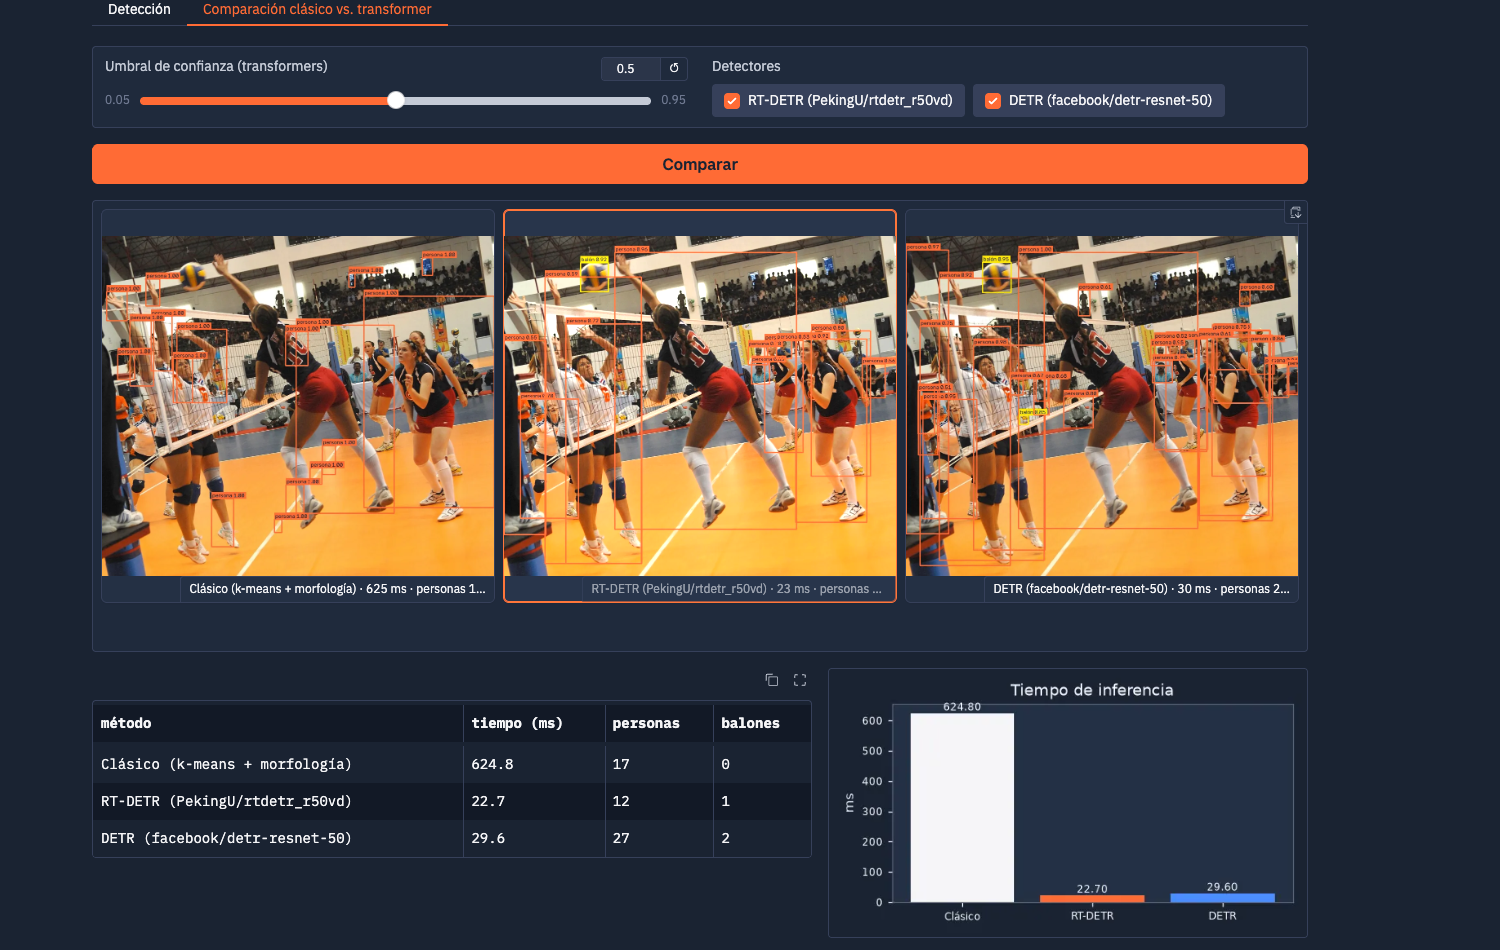
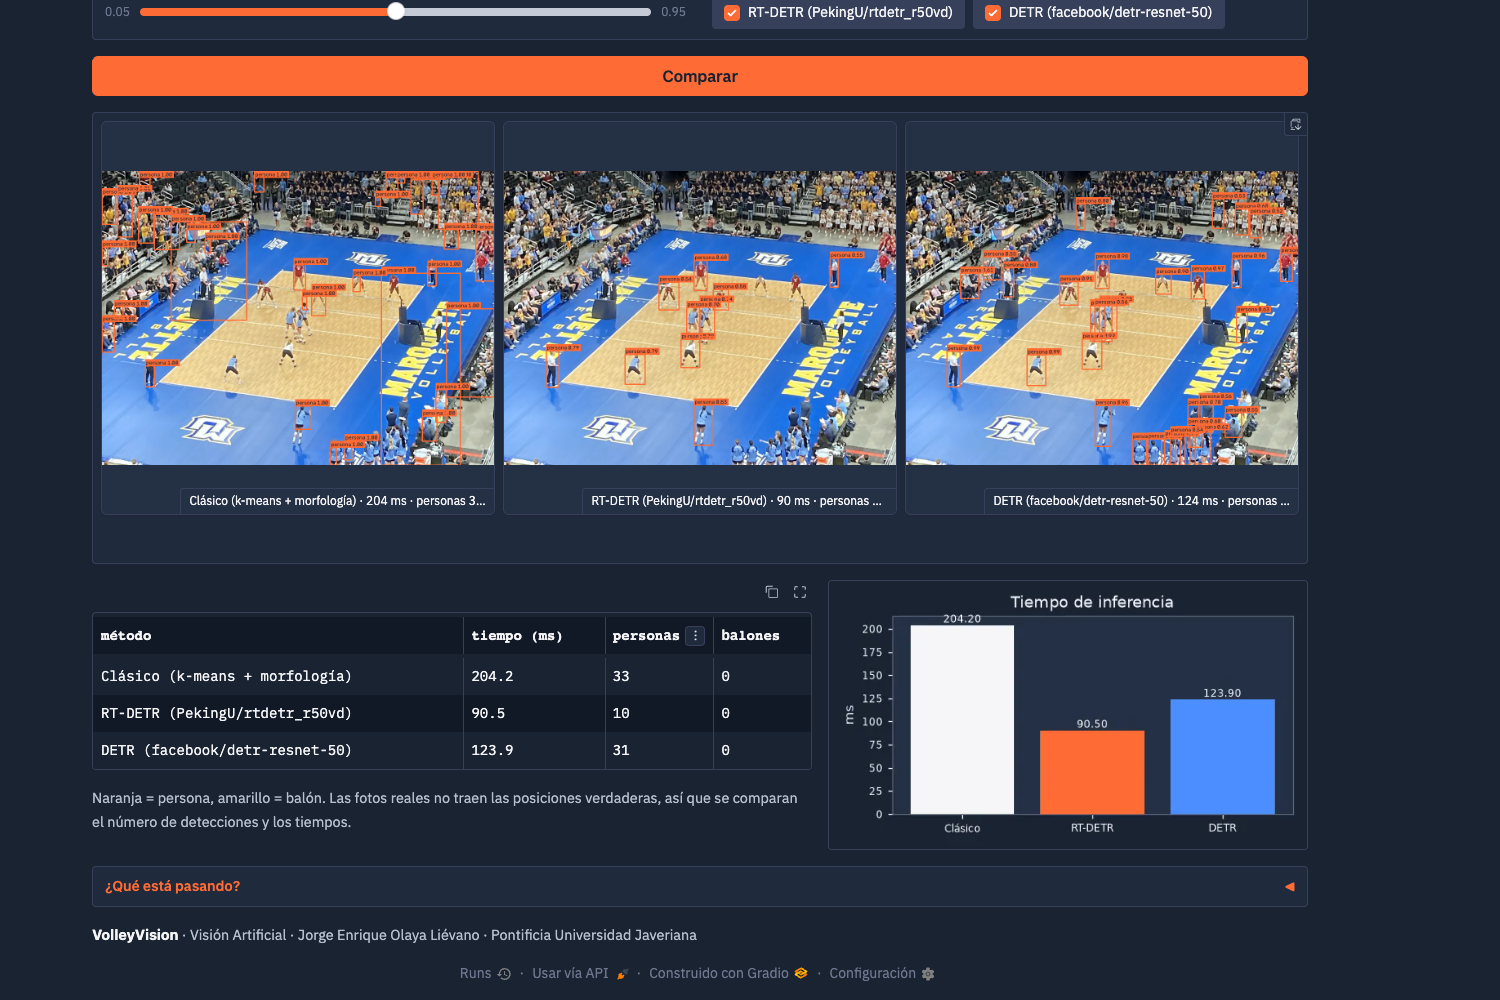
docs: fotos reales de ejemplo, créditos, limitaciones y capturas nuevas

diff --git a/README.md b/README.md
@@ -83,7 +83,7 @@ forzar un dispositivo: `export VOLLEYVISION_DEVICE=cpu`.
 Datos de ejemplo (opcional):
 
 ```bash
-python scripts/generar_sinteticos.py   # ya vienen en el repo; regenera tablero, cancha y video sintéticos
+python scripts/generar_sinteticos.py   # ya vienen en el repo; regenera el tablero de calibración
 python scripts/download_samples.py     # descarga fotos reales con licencia libre de Wikimedia Commons
 ```
 
@@ -144,9 +144,9 @@ Se usa un flujo tipo **Git Flow simplificado**:
 
 | Rama | Propósito |
 |---|---|
-| `main` | Versión estable y entregable. Solo recibe merges desde `develop` y se etiqueta en cada versión (`v1.0.0`, `v1.1.0`, `v2.0.0`, `v2.0.1`, `v2.1.0`, `v2.2.0`). |
+| `main` | Versión estable y entregable. Solo recibe merges desde `develop` y se etiqueta en cada versión (`v1.0.0`, `v1.1.0`, `v2.0.0`, `v2.0.1`, `v2.1.0`, `v2.2.0`, `v2.3.0`). |
 | `develop` | Rama de integración: aquí se juntan los módulos terminados y probados. |
-| `feature/<tema>` | Una rama por módulo del curso: `feature/calibracion`, `feature/filtros`, `feature/histogramas`, `feature/umbralizacion`, `feature/morfologia`, `feature/segmentacion`, `feature/caracterizacion`, `feature/transformers`, `feature/ui` (y `feature/docs` para la documentación). Los cambios posteriores siguen el mismo flujo: `feature/camara-trasera` cambió la cámara a la vista trasera (`v1.1.0`) y `feature/gradio-zerogpu` pasó la interfaz a Gradio con ZeroGPU (`v2.0.0`); `feature/ui-sencilla` agregó el modo guiado para no expertos (`v2.1.0`) y `feature/solo-mi-equipo` hizo que solo se analice el equipo propio (`v2.2.0`). |
+| `feature/<tema>` | Una rama por módulo del curso: `feature/calibracion`, `feature/filtros`, `feature/histogramas`, `feature/umbralizacion`, `feature/morfologia`, `feature/segmentacion`, `feature/caracterizacion`, `feature/transformers`, `feature/ui` (y `feature/docs` para la documentación). Los cambios posteriores siguen el mismo flujo: `feature/camara-trasera` cambió la cámara a la vista trasera (`v1.1.0`) y `feature/gradio-zerogpu` pasó la interfaz a Gradio con ZeroGPU (`v2.0.0`); `feature/ui-sencilla` agregó el modo guiado para no expertos (`v2.1.0`) `feature/solo-mi-equipo` hizo que solo se analice el equipo propio (`v2.2.0`) y `feature/fotos-reales` cambió las escenas sintéticas de la app por fotos reales (`v2.3.0`). |
 
 Reglas:
 
@@ -272,6 +272,15 @@ gitGraph
     merge feature/solo-mi-equipo
     checkout main
     merge develop tag: "v2.2.0"
+    checkout develop
+    branch feature/fotos-reales
+    checkout feature/fotos-reales
+    commit id: "feat: fotos reales de ejemplo"
+    commit id: "test: fotos reales"
+    checkout develop
+    merge feature/fotos-reales
+    checkout main
+    merge develop tag: "v2.3.0"
 ```
 
 Para ver el historial real: `git log --oneline --graph --all`.
@@ -315,7 +324,8 @@ flowchart TB
   modelos se cargan **una vez** por proceso (`ui/modelos.py`) y la inferencia va en funciones
   `@spaces.GPU` para ZeroGPU.
 - **`utils/`**: E/S de imágenes y video, dibujo con la paleta del proyecto y generación de datos
-  sintéticos con verdad conocida (para pruebas y demos sin internet).
+  sintéticos con verdad conocida. La app usa **fotos reales**; las escenas sintéticas solo se generan
+  en memoria para las pruebas automáticas (son las únicas con la posición exacta de cada jugador).
 
 ### Pipeline
 
@@ -349,9 +359,9 @@ VolleyVision/
 │   │   ├── app.py  ├── componentes.py  ├── modelos.py
 │   │   └── paginas/  analizar.py (modo guiado), p0_inicio.py … p9_pipeline.py
 │   └── utils/                # io.py, visualizacion.py, sinteticos.py
-├── data/samples/             # cancha y video sintéticos, tablero (descargadas/ se ignora)
+├── data/samples/             # reales/ (fotos de ejemplo + esquinas), tablero (descargadas/ se ignora)
 ├── scripts/                  # generar_sinteticos.py, download_samples.py
-├── tests/                    # pytest (103 pruebas)
+├── tests/                    # pytest (113 pruebas)
 ├── docs/                     # arquitectura, guion del video, capturas
 ├── app.py                    # punto de entrada (local y Hugging Face Spaces)
 ├── requirements.txt  ├── pytest.ini  ├── LICENSE  └── README.md
@@ -395,7 +405,7 @@ compara los tiempos en tu máquina.
 ## Pruebas
 
 ```bash
-pytest                 # 100 pruebas rápidas (sin descargar modelos)
+pytest                 # 110 pruebas rápidas (sin descargar modelos)
 pytest -m slow         # 3 pruebas que descargan y ejecutan los modelos de Hugging Face
 ```
 
@@ -413,19 +423,26 @@ Qué se verifica, entre otras cosas:
   sintética; sin ella, elige el grupo de camisetas más cercano a la cámara.
 - El pipeline clásico se queda solo con el equipo propio (todos en la media cancha propia), descarta al
   rival y encuentra el balón.
-- La app de Gradio se construye y cada callback de la UI se ejecuta sin excepciones con la escena
-  sintética (sin levantar el servidor); el modo guiado da un resumen con los jugadores de tu equipo,
+- Cada foto real de ejemplo trae las esquinas de su media cancha (convexas, con la red más lejos que
+  la línea de fondo), y en ellas el pipeline se queda solo con el equipo propio, sin jueces ni rivales.
+- La app de Gradio se construye y cada callback de la UI se ejecuta sin excepciones con una foto real
+  (sin levantar el servidor); el modo guiado da un resumen con los jugadores de tu equipo,
   el balón y su zona (ataque o defensa), y sin esquinas no dibuja el mapa.
 
 ---
 
 ## Datos de ejemplo
 
-- `data/samples/cancha_sintetica*.jpg` y `rally_sintetico.mp4`: escenas sintéticas tomadas desde detrás
-  de la línea de fondo propia, con posiciones conocidas (cancha naranja, zona libre verde, equipo propio
-  rojo de espaldas con su número, rival azul, balón amarillo con franjas azules).
+- `data/samples/reales/`: 8 fotos reales del partido Wisconsin vs. Marquette (2023) de
+  [Michael Barera](https://commons.wikimedia.org/wiki/User:Michael_Barera) en Wikimedia Commons, con
+  licencia **CC BY-SA 4.0** (esas fotos siguen bajo esa licencia; créditos en `CREDITOS.md`). Están
+  tomadas desde lo alto de la tribuna, detrás de una línea de fondo. `esquinas.json` guarda las 4
+  esquinas de la media cancha cercana, obtenidas detectando el parqué y proyectando la línea central con
+  la homografía de la cancha completa. No se encontraron fotos o videos libres tomados a la altura de la
+  cancha justo detrás del equipo: para eso lo ideal es grabar un partido propio.
 - `data/samples/tablero/`: 14 fotos sintéticas de un tablero 9 × 6 tomadas con una cámara de K y
-  distorsión conocidas. `tablero_plano.png` es el patrón para imprimir.
+  distorsión conocidas (es la única parte sintética de la app: para calibrar una cámara real hay que
+  fotografiar el tablero impreso con ella). `tablero_plano.png` es el patrón para imprimir.
 - `data/samples/descargadas/` (no versionada): fotos reales de Wikimedia Commons con licencia libre
   (CC0, dominio público, CC BY, CC BY-SA). El script escribe `CREDITOS.md` con autor, licencia y enlace
   de cada una. El filtro es por título, así que conviene revisar las fotos y borrar las que no sean de
@@ -435,17 +452,19 @@ Qué se verifica, entre otras cosas:
 
 ## Limitaciones
 
-- **Cambio de dominio**: los jugadores sintéticos son figuras geométricas y RT-DETR/DETR detectan pocos.
-  En fotos reales ocurre lo contrario: los transformers detectan bien y el método clásico confunde al
-  público con jugadores.
+- **Fotos de tribuna**: en las fotos de ejemplo cada jugadora mide unos 40 px. RT-DETR encuentra a casi
+  todas las de la media cancha propia, pero el balón (~6 px) casi nunca se detecta, ni con el método
+  clásico ni con los transformers. El método clásico confunde a jueces y público con jugadores y pierde
+  a las que se tapan.
 - **Segmentación clásica de jugadores**: supone que los colores dominantes son el fondo (piso, zona
   libre, gradas). Falla con público muy colorido, jugadores superpuestos o colores parecidos al piso.
 - **Solo el equipo propio**: el rival no se analiza; desde atrás queda lejos y tapado por la red y por la
-  primera línea propia. Con las esquinas, son propios los que pisan la media cancha propia (con 0,5 m de
-  margen en la red); sin ellas, el grupo de camisetas con los pies más abajo en la imagen.
-- **Oclusiones de la cámara trasera**: el método clásico puede unir a dos jugadores propios que se tapan
-  (encuentra 5–6 de los 6 propios en las escenas sintéticas). Una cámara elevada (tribuna o trípode
-  alto) reduce el problema.
+  primera línea propia. Con las esquinas, son propios los que pisan la media cancha propia (0,2 m de
+  margen hacia la red, 0,5 m a los lados y hasta 5,5 m detrás de la línea de fondo para quien saca, sin
+  margen lateral ahí para dejar fuera a los jueces de línea); sin ellas, el grupo de camisetas con los
+  pies más abajo en la imagen.
+- **Oclusiones**: el método clásico puede unir a dos jugadores propios que se tapan. Una cámara elevada
+  (como la de las fotos de ejemplo) reduce el problema.
 - **Balón**: los rangos HSV están pensados para balones amarillo/azul; otros colores requieren ajustar
   los sliders.
 - **Homografía**: supone el piso plano y las 4 esquinas de la media cancha propia visibles (las dos de la
@@ -455,7 +474,8 @@ Qué se verifica, entre otras cosas:
   tablero impreso con esa misma cámara y resolución.
 - **Sin esquinas**: el equipo propio se reconoce por el color de la camiseta, así que se asume que los dos
   uniformes son de colores distintos; el líbero y los árbitros pueden quedar mal asignados.
-- **Video**: se procesa frame por frame, sin seguimiento (*tracking*) entre frames.
+- **Video**: no se incluye un video de ejemplo (no hay uno libre con esta vista); se puede subir uno
+  propio. Se procesa frame por frame, sin seguimiento (*tracking*) entre frames.
 - **Recursos**: la primera ejecución descarga unos 850 MB de pesos si se usan todos los modelos; SAM
   ViT-B es lento en CPU (por eso SlimSAM va por defecto).
 

diff --git a/docs/guion_video.md b/docs/guion_video.md
@@ -10,8 +10,8 @@
   avanzadas**: ábrelas antes de mostrarlos.
 - Tener abiertos en el editor `README.md` y la carpeta `volleyvision/`, y una terminal con
   `git log --oneline --graph --all` listo.
-- Imagen de ejemplo principal: `cancha_sintetica.jpg`. Foto real: `voleibol_03.jpg` (o la que mejor
-  se vea de `data/samples/descargadas/`).
+- Imagen de ejemplo principal: `marquette_01.jpg` (fotos reales de `data/samples/reales/`, que ya traen
+  las esquinas de la media cancha).
 
 ---
 
@@ -42,7 +42,7 @@ Abrir **ℹ Acerca del proyecto** y señalar la tabla del recorrido y el diag
 
 > "El código está en tres capas. En `core` cada tema es un módulo con funciones puras: reciben una
 > imagen y devuelven imágenes o datos, sin Gradio. La UI solo llama al core, y `utils` tiene la
-> carga de imágenes, el dibujo y un generador de escenas sintéticas con verdad conocida, que uso en
+> carga de imágenes, el dibujo y un generador de escenas sintéticas con verdad conocida, que uso solo en
 > las pruebas."
 
 - Mostrar el árbol de `volleyvision/` (core, ui, utils).
@@ -50,7 +50,7 @@ Abrir **ℹ Acerca del proyecto** y señalar la tabla del recorrido y el diag
   > "Trabajé con `main` estable, `develop` de integración y una rama `feature` por módulo, con
   > Conventional Commits y merges `--no-ff`, por eso cada rama queda visible en el historial. La
   > versión entregada tiene la etiqueta v2.2.0."
-- Ejecutar `pytest -q` y mostrar que pasan las 100 pruebas.
+- Ejecutar `pytest -q` y mostrar que pasan las 110 pruebas.
 
 ## 1:45 – 2:45 · Calibración
 
@@ -123,7 +123,7 @@ Abrir **ℹ Acerca del proyecto** y señalar la tabla del recorrido y el diag
 
 1. *K-means*: k = 5 en Lab.
 2. *Watershed*: demo de los dos balones que se tocan: contornos encuentra 1 objeto, watershed 2.
-3. *Jugadores (clásico)*: verde = acierto y rojo = error, usando la verdad de la escena sintética.
+3. *Jugadores (clásico)*: mostrar que en una foto real también salen jueces y público.
 4. *SegFormer*: activar y mostrar la clase "person" y el tiempo.
 5. *SAM*: hacer clic sobre el balón y luego sobre un jugador, y mostrar las 3 máscaras con su IoU estimado.
 
@@ -149,16 +149,14 @@ propios, solidez, Hu) y `es_balon`.
 
 **UI:** pestaña **8 · Transformers**.
 
-1. *Detección* con `voleibol_03.jpg`: RT-DETR detecta personas y el balón; cambiar a DETR.
+1. *Detección* con `marquette_01.jpg`: RT-DETR detecta a las jugadoras; cambiar a DETR.
 2. *Comparación* con la foto real: pulsar *Comparar* y mostrar las tres columnas y la gráfica de tiempos.
-   > "En la foto real el método clásico confunde al público con jugadores y no encuentra el balón; los
-   > transformers sí, y RT-DETR es más rápido que DETR."
+   > "En la foto real el método clásico confunde a jueces y público con jugadores; los transformers
+   > encuentran a las jugadoras, y RT-DETR es más rápido que DETR. El balón mide unos 6 píxeles desde
+   > la tribuna y casi nadie lo encuentra: es una limitación de esta toma."
 
    Si se graba desde el Space: "Aquí los modelos corren en una GPU de ZeroGPU que Hugging Face asigna
    solo durante la inferencia; el código está en `ui/modelos.py`, en las funciones con `@spaces.GPU`."
-3. *Comparación* con `cancha_sintetica.jpg`:
-   > "Aquí pasa lo contrario: los jugadores sintéticos son figuras geométricas y los transformers
-   > detectan pocos. Es un cambio de dominio, una de las limitaciones que documento en el README."
 
 ## 8:30 – 9:30 · Pipeline completo
 
@@ -166,10 +164,10 @@ propios, solidez, Hu) y `es_balon`.
 
 **UI:** pestaña **9 · Pipeline**.
 
-1. Fuente *Video (elegir frame)* → `rally_sintetico.mp4`, mover el slider de frame.
+1. Elegir otra foto de ejemplo (por ejemplo `marquette_05.jpg`, con Wisconsin en la media cancha cercana).
 2. Dejar **desactivada** *Corregir distorsión con la calibración* y explicar por qué:
-   > "Esta corrección solo se aplica a imágenes tomadas con la cámara que calibré; la escena sintética
-   > no tiene distorsión, así que corregirla la deformaría."
+   > "Esta corrección solo se aplica a imágenes tomadas con la cámara que calibré; estas fotos son de
+   > otra cámara, así que corregirlas con mi calibración las deformaría."
 
    Usar las esquinas de ejemplo, activar RT-DETR y ejecutar.
 3. Recorrer los pasos 1 a 7 y la gráfica de tiempo por etapa, y terminar en el mapa cenital.

diff --git a/docs/arquitectura.md b/docs/arquitectura.md
@@ -54,7 +54,7 @@ sequenceDiagram
 
 | Decisión | Motivo |
 |---|---|
-| Datos sintéticos con verdad conocida (`utils/sinteticos.py`) | Permiten **verificar** cada algoritmo con números (K recuperada, jugadores encontrados, posiciones en metros) y que la app funcione sin internet. |
+| Fotos reales en la app; datos sintéticos solo en las pruebas (`utils/sinteticos.py`) | La app muestra fotos reales con licencia libre (con las esquinas de su media cancha guardadas). Las escenas sintéticas, con la posición exacta de cada jugador, permiten **verificar** cada algoritmo con números (K recuperada, jugadores encontrados, posiciones en metros). |
 | Implementaciones manuales junto a las de OpenCV (convolución, Otsu, ecualización, erosión/dilatación, DLT, proyección pinhole) | Muestran la teoría del curso y las pruebas comparan ambas versiones. |
 | RT-DETR por defecto y DETR como opción | RT-DETR es más rápido y preciso; DETR es el modelo original y sirve de referencia en la comparación de tiempos. |
 | SlimSAM por defecto y SAM ViT-B como opción | SlimSAM es viable en CPU (~28 M parámetros frente a ~94 M). |
@@ -80,4 +80,5 @@ sequenceDiagram
 | `tests/test_segmentacion.py` | Contornos, watershed, k-means, jugadores clásicos, IoU |
 | `tests/test_caracterizacion.py` | Descriptores vs. scikit-image, invariancia de Hu, clasificación del balón, proyección, selección del equipo propio |
 | `tests/test_transformers.py` | Pipeline completo, con calibración y sin esquinas; modelos reales (`-m slow`) |
+| `tests/test_reales.py` | Fotos reales de ejemplo: esquinas guardadas válidas y pipeline que se queda solo con el equipo propio |
 | `tests/test_ui.py` | La app de Gradio se construye y cada callback de la UI corre sin excepciones (calibración, esquinas, pipeline); modelos reales con `-m slow` |

diff --git a/docs/capturas/README.md b/docs/capturas/README.md
@@ -1,6 +1,6 @@
 # Capturas para el README
 
-Capturas de la app (PNG, 1500 px de ancho; la de transformers del Space desplegado y las demás de la app local) que usa la sección **Capturas** del README:
+Capturas de la app local con las fotos reales de ejemplo (PNG, 1500 px de ancho) que usa la sección **Capturas** del README:
 
 | Archivo | Qué capturar |
 |---|---|
